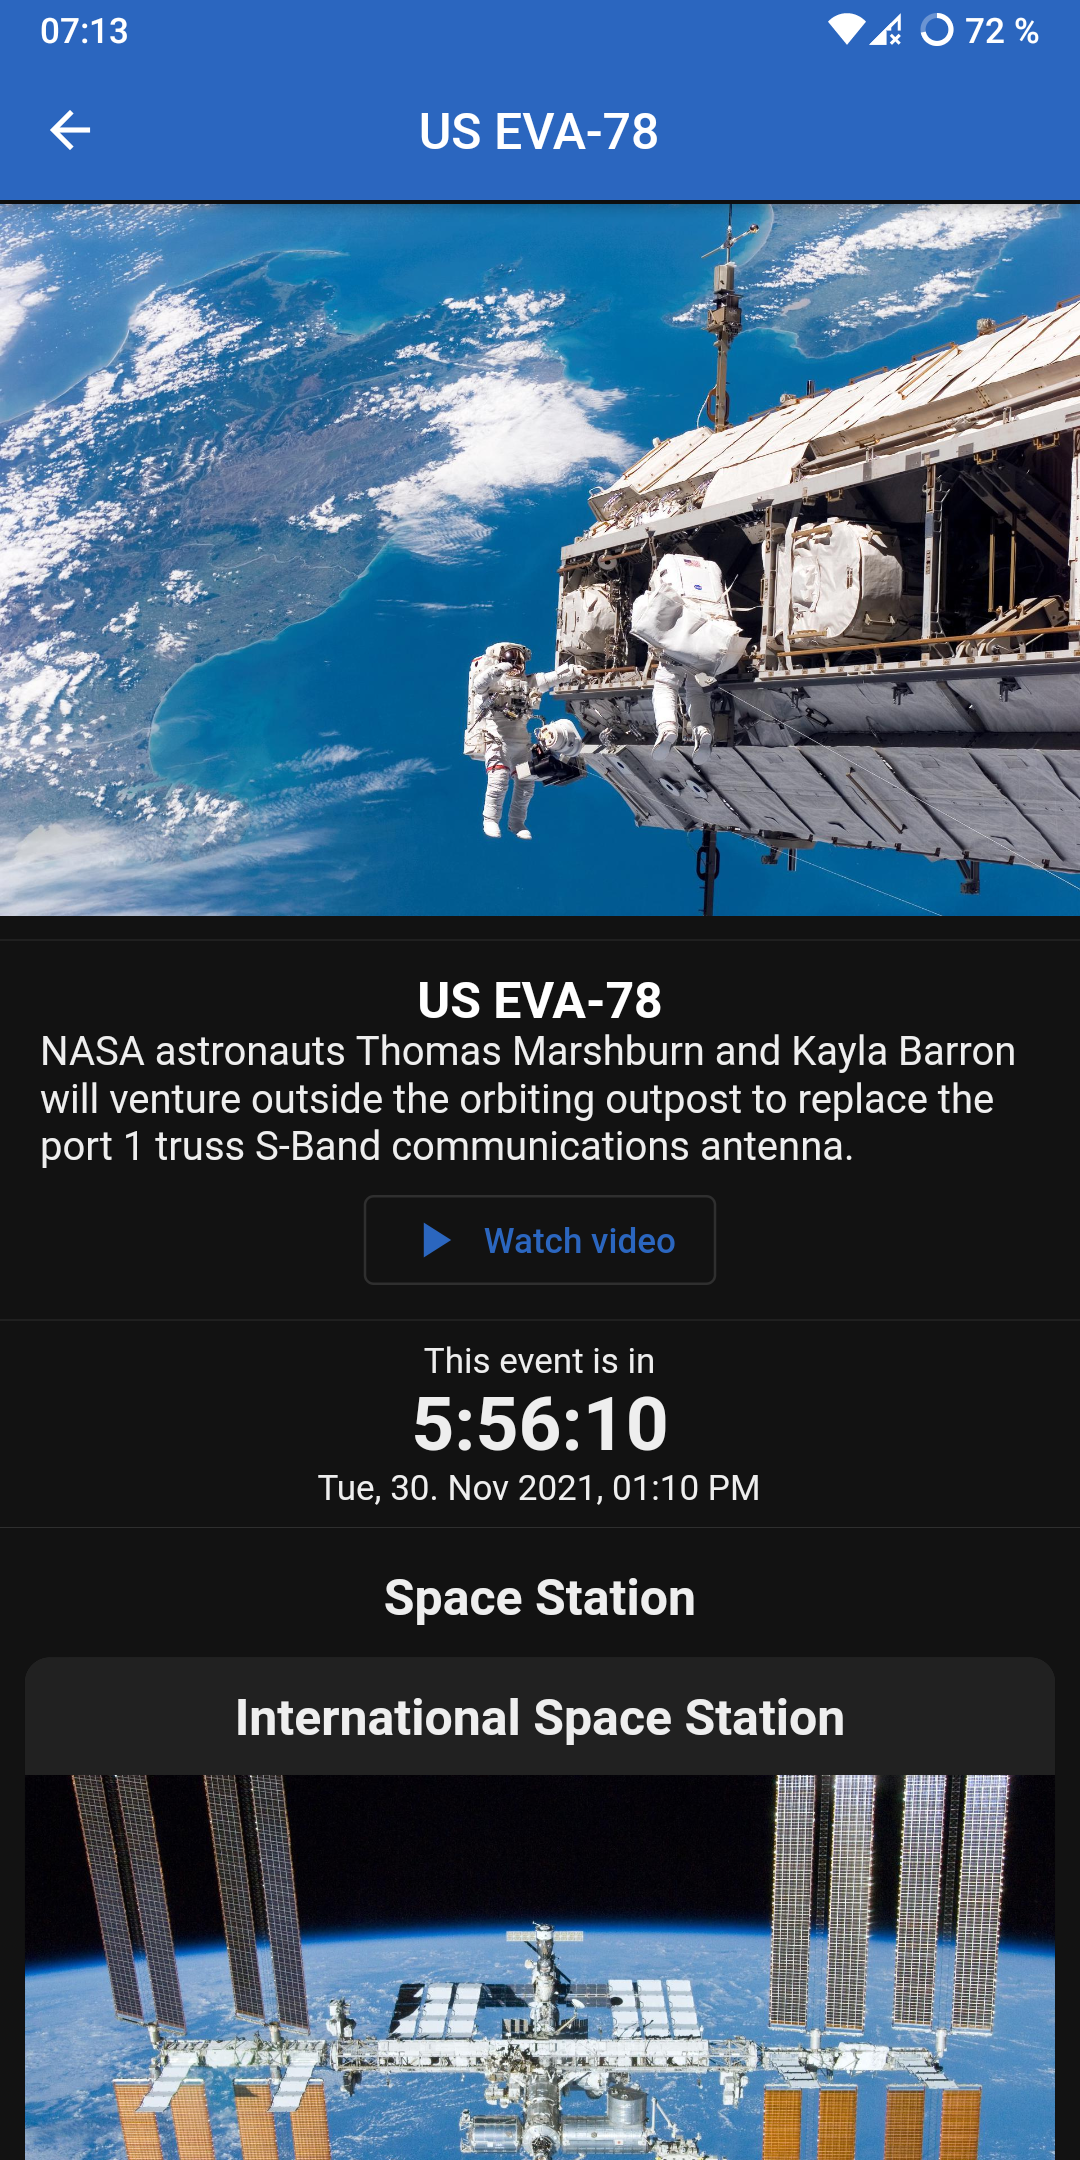
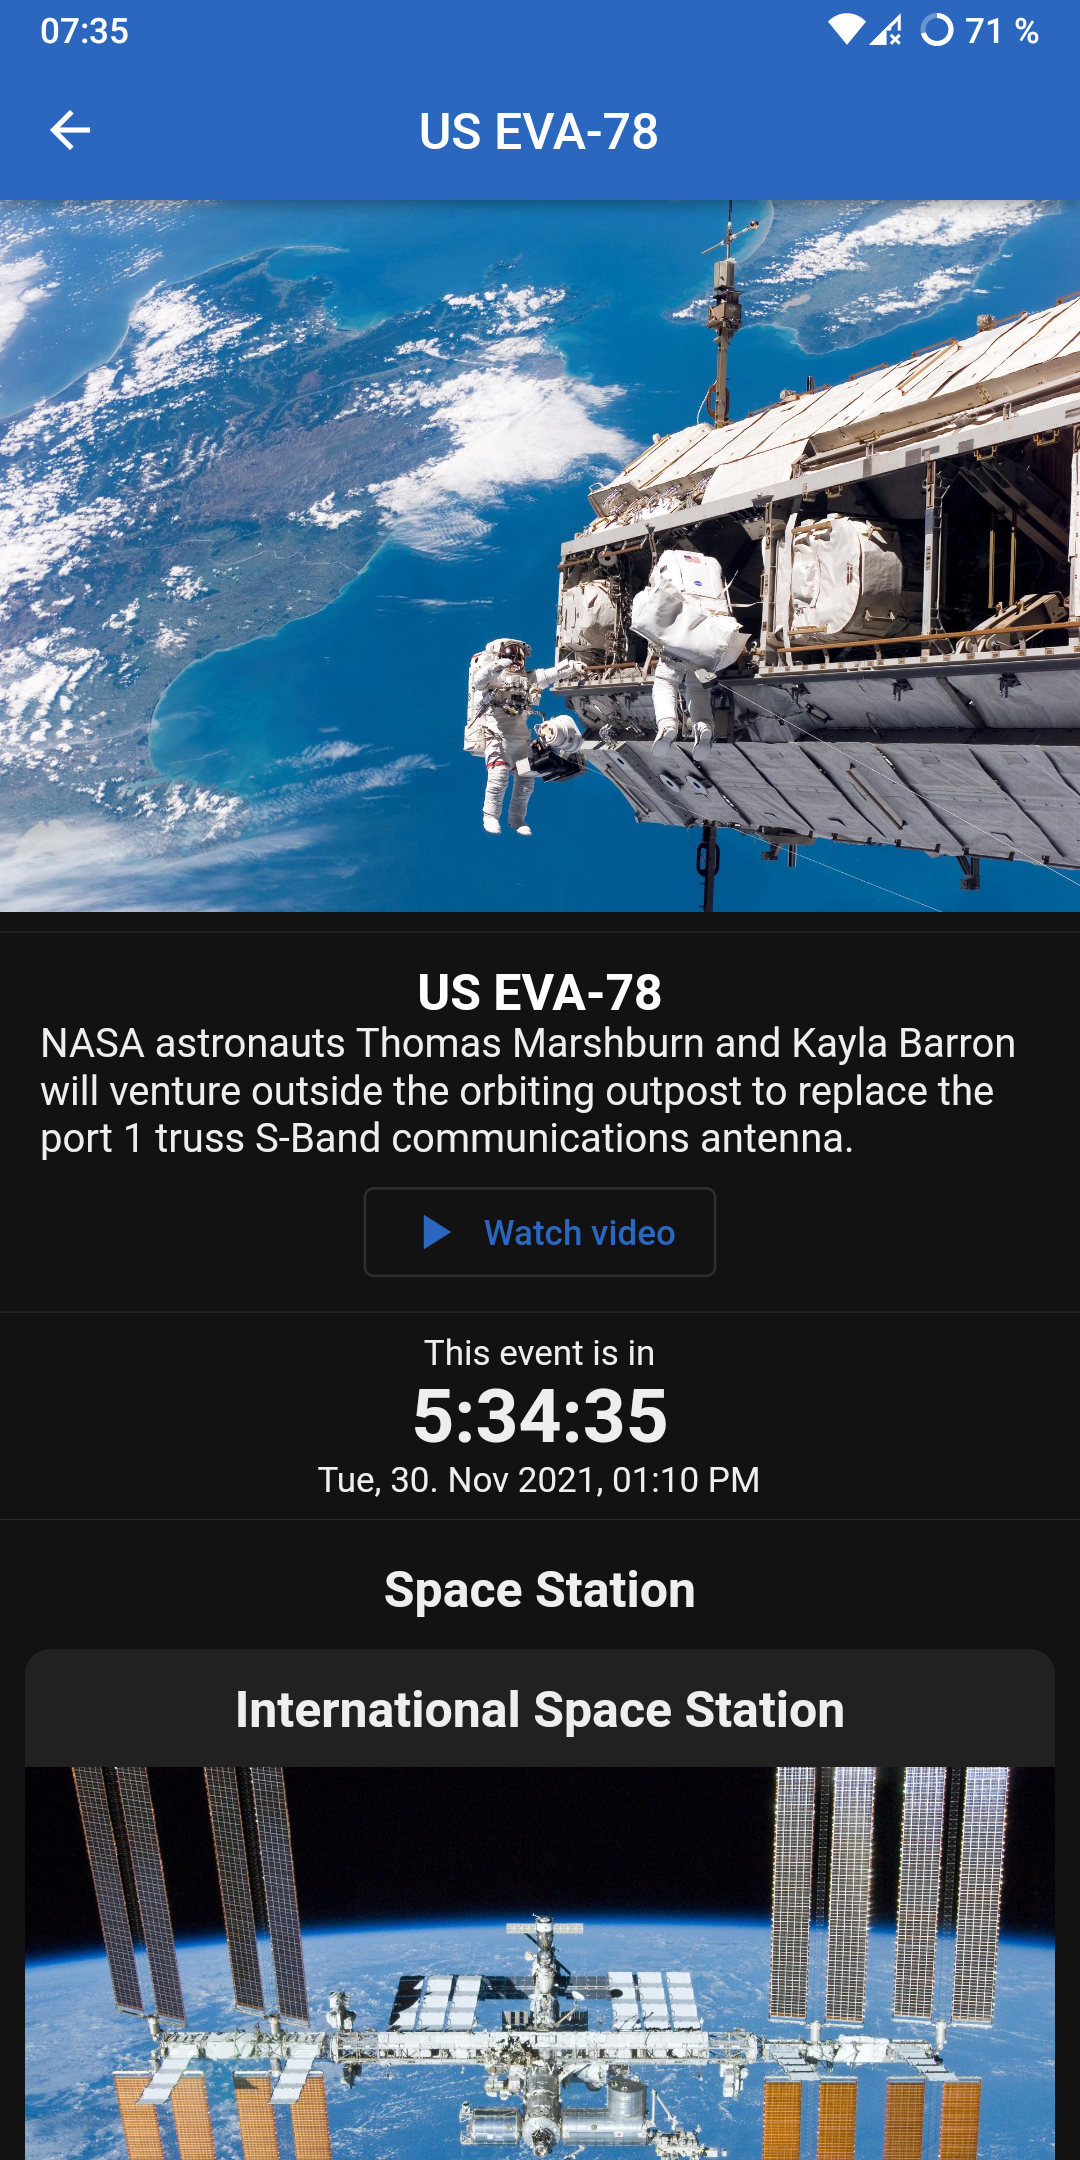
Fix images not taking up all space, bounce effects

diff --git a/lib/pages/upcoming_launches_listing.dart b/lib/pages/upcoming_launches_listing.dart
@@ -1,3 +1,5 @@
+import 'dart:math';
+
 import 'package:flutter/material.dart';
 import 'package:flutter_gen/gen_l10n/app_localizations.dart';
 import 'package:loadmore/loadmore.dart';
@@ -150,7 +152,7 @@ class _LaunchesListState extends State<LaunchesList> {
       // Scroll the list view to the currently viewed launch. If the user now leaves this view
       // the list will have scrolled to the last viewed item, which is nice
       final wheight = LaunchWidget.calculateHeight(context);
-      final targetOffset = wheight * idx - wheight / 2;
+      final targetOffset = max(wheight * idx - wheight / 2, 0.0);
 
       if (animated) {
         _launchListController.animateTo(
@@ -176,6 +178,7 @@ class _LaunchesListState extends State<LaunchesList> {
           );
 
           var pv = PageView.custom(
+            physics: const BouncingScrollPhysics(),
             childrenDelegate: SliverChildBuilderDelegate(
               (context, idx) {
                 if (idx >= launches.length) {

diff --git a/lib/pages/upcoming_events_listing.dart b/lib/pages/upcoming_events_listing.dart
@@ -1,3 +1,5 @@
+import 'dart:math';
+
 import 'package:flutter/material.dart';
 import 'package:flutter_gen/gen_l10n/app_localizations.dart';
 import 'package:loadmore/loadmore.dart';
@@ -150,7 +152,7 @@ class _EventsListState extends State<EventsList> {
       // Scroll the list view to the currently viewed launch. If the user now leaves this view
       // the list will have scrolled to the last viewed item, which is nice
       final wheight = EventWidget.calculateHeight(context);
-      final targetOffset = wheight * idx - wheight / 2;
+      final targetOffset = max(wheight * idx - wheight / 2, 0.0);
 
       if (animated) {
         _eventListController.animateTo(
@@ -176,6 +178,7 @@ class _EventsListState extends State<EventsList> {
           );
 
           var pv = PageView.custom(
+            physics: const BouncingScrollPhysics(),
             childrenDelegate: SliverChildBuilderDelegate(
               (context, idx) {
                 if (idx >= events.length) {

diff --git a/lib/pages/event_details.dart b/lib/pages/event_details.dart
@@ -75,12 +75,12 @@ class _EventDetailsPageState extends State<EventDetailsPage>
   }
 
   Widget _zoomableImage() {
-    return Container(
-      constraints: BoxConstraints(
-        maxHeight: max(MediaQuery.of(context).size.height / 3, 250),
-      ),
-      child: PinchZoomImage(
-        image: Center(
+    return PinchZoomImage(
+      image: Center(
+        child: Container(
+          constraints: BoxConstraints(
+            maxHeight: max(MediaQuery.of(context).size.height / 3, 250),
+          ),
           child: ImageWidget(
             widget.event.featureImage,
             id: "${widget.event.id}",

diff --git a/lib/pages/launch_details.dart b/lib/pages/launch_details.dart
@@ -43,12 +43,12 @@ class _LaunchDetailsPageState extends State<LaunchDetailsPage>
   );
 
   Widget _zoomableImage() {
-    return Container(
-      constraints: BoxConstraints(
-        maxHeight: max(MediaQuery.of(context).size.height / 3, 250),
-      ),
-      child: PinchZoomImage(
-        image: Center(
+    return PinchZoomImage(
+      image: Center(
+        child: Container(
+          constraints: BoxConstraints(
+            maxHeight: max(MediaQuery.of(context).size.height / 3, 250),
+          ),
           child: ImageWidget(
             widget.launch.image,
             heroTag: "launch-image",
